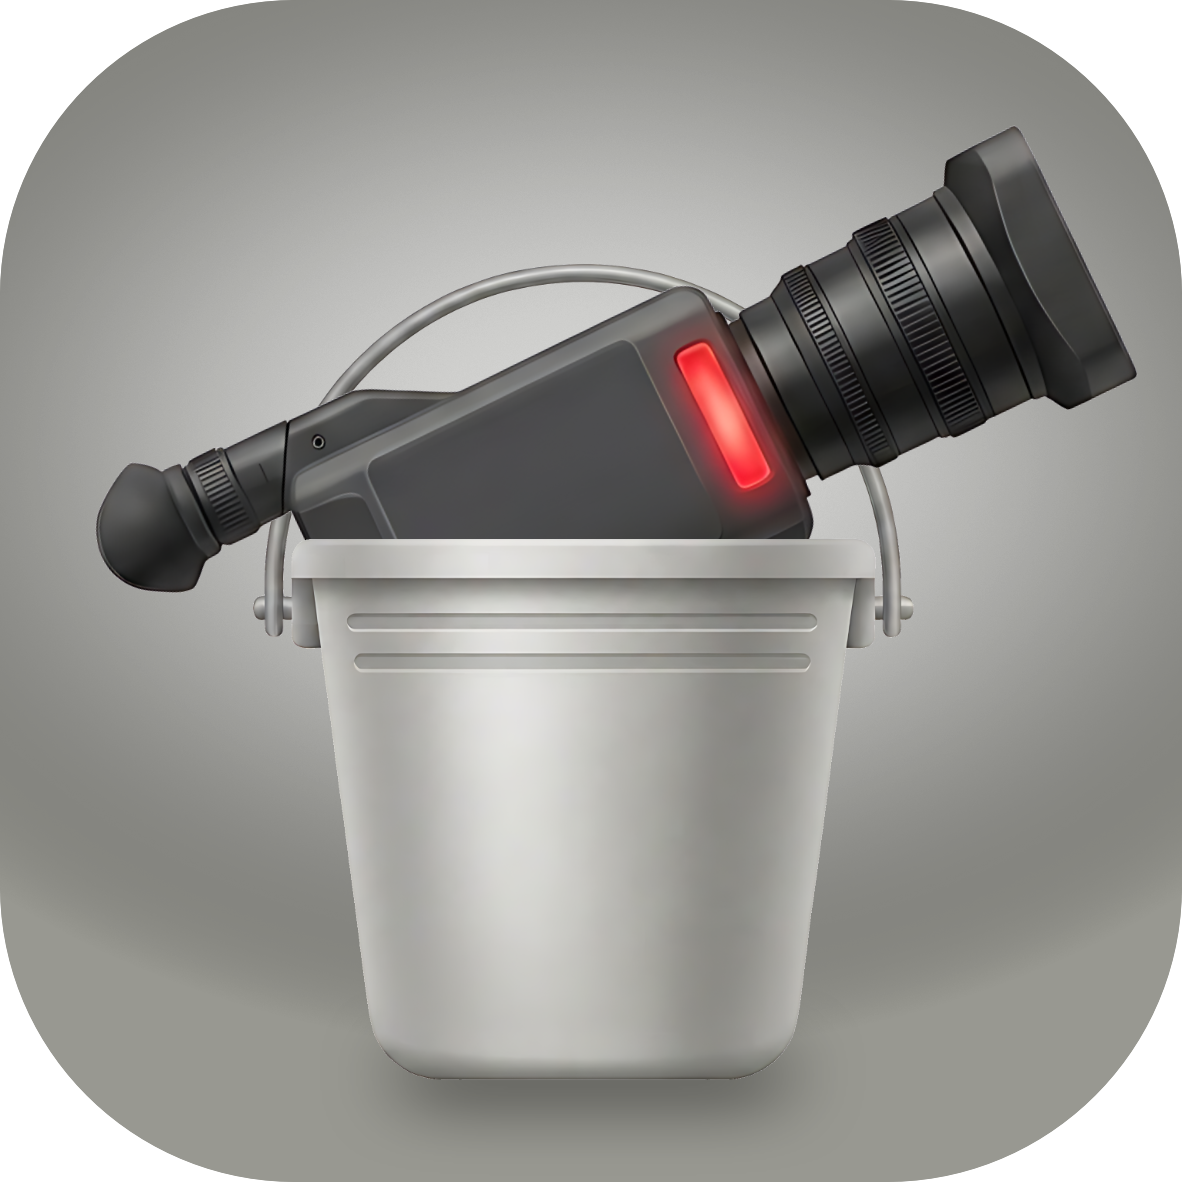
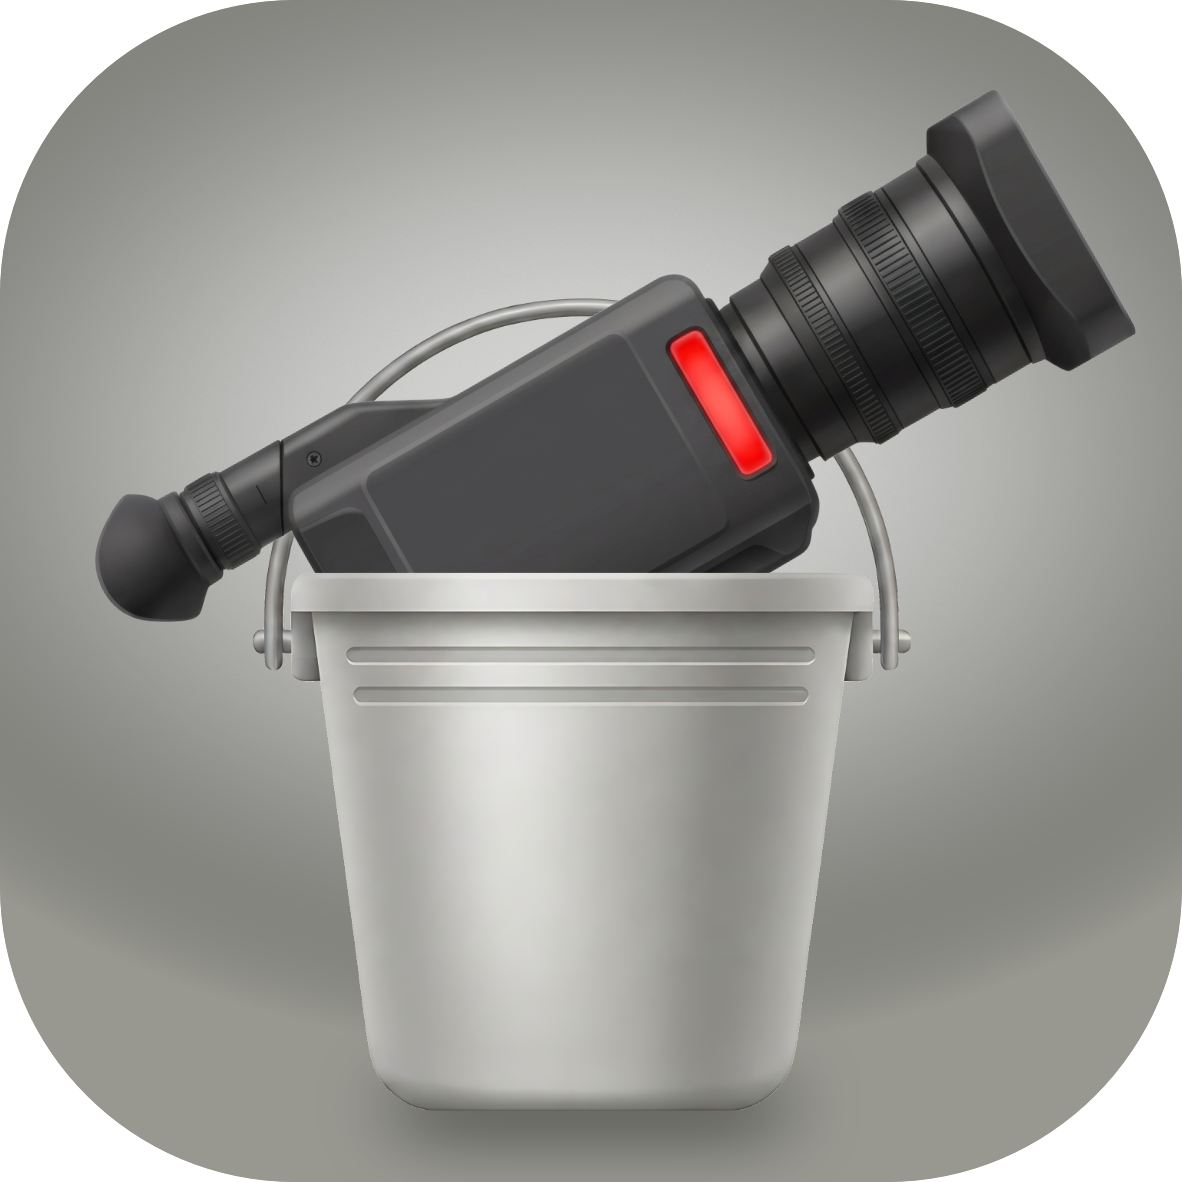
build and image fixes

Changed region(s): [[0.0609, 0.0609, 0.9746, 0.8223], [0.3046, 0.8223, 0.6701, 0.9442], [0.6701, 0.8528, 0.7005, 0.8832]]

diff --git a/README.md b/README.md
@@ -1,5 +1,7 @@
 # Stream Bucket
 
+![Stream Bucket Icon](icon/icon.png)
+
 A macOS application for batch processing video files into HLS streams with optional S3 upload and Cloudflare CDN integration.
 
 ## Overview
@@ -65,7 +67,7 @@ You need an S3-compatible storage account:
 ### Build Script
 
 ```bash
-./build.sh
+./build.sh #{Version}
 ```
 
 This will:
@@ -232,7 +234,7 @@ For batch processing and uploading:
 3. Select your configured S3 profile
 4. Start processing - files will upload automatically
 
-## S3 Profile Configuration Details
+## S3 Profile C onfiguration Details
 
 ### Required Fields
 

diff --git a/CHANGELOG.md b/CHANGELOG.md
@@ -36,7 +36,7 @@ and this project adheres to [Semantic Versioning](https://semver.org/spec/v2.0.0
 
 | Version | Date | Description |
 |---------|------|-------------|
-| 1.0.0 | 2024 | Initial release |
+| 1.0.0 | 2026 | Initial release |
 | Unreleased | Current | Documentation and setup guides |
 
 ---